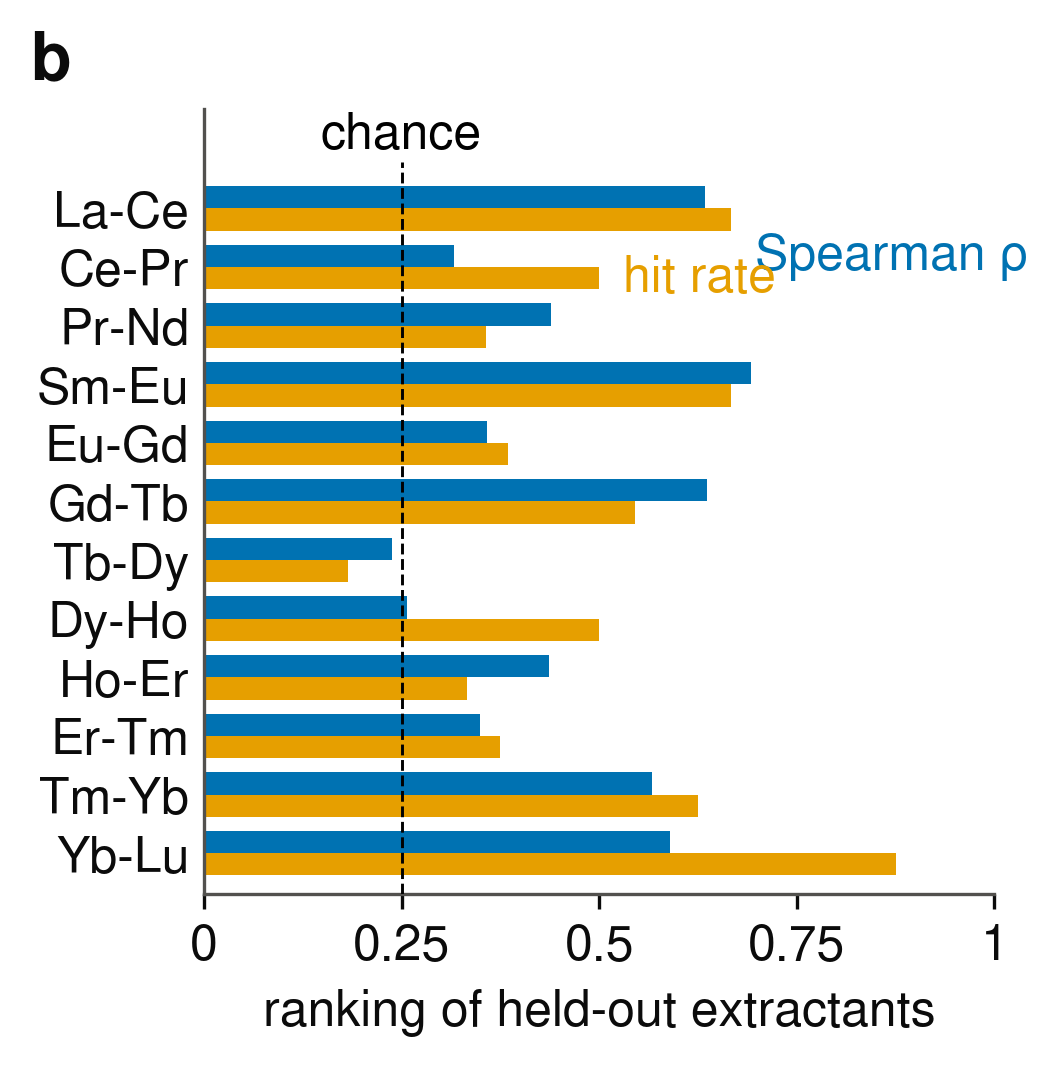
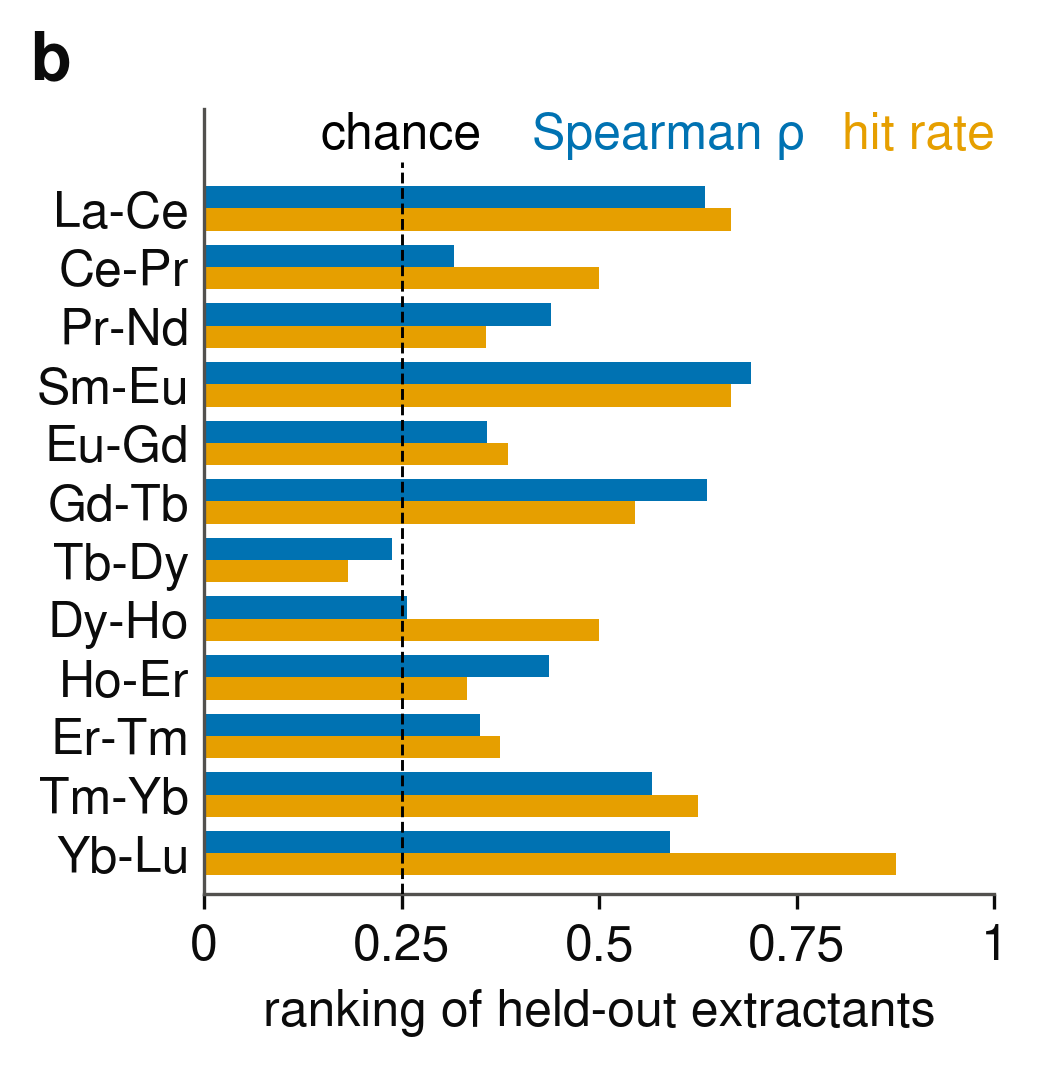
MoML figure, ranking panel: chance and the two series names on one line above the bars, in their colours, nothing touching a bar

diff --git a/docs/moml_2026/make_figures.py b/docs/moml_2026/make_figures.py
@@ -77,15 +77,13 @@ def fig1b(ch=None):
     ax.vlines(chance, -0.7, len(pos) - 1 + 0.8, ls="--", lw=0.7, color=fs.OI["black"], zorder=3)
     # names written beside the shortest row's bars, where the axes are empty
     top = len(pos) - 1
-    # series names beside the Ce-Pr bars, near the top where the eye starts:
-    # single lines, each cleared past the bars above/below it in x
+    # one line in the band above the bars: chance at its line, then the two
+    # series names in their own colours, right-aligned; nothing touches a bar
     top = len(pos) - 1
-    k = pos.index("Ce-Pr")
-    x_blue = max(rho[k], hit[k + 1]) + 0.03            # clears the La-Ce orange bar above
-    x_orng = max(hit[k], rho[k - 1]) + 0.03            # clears the Pr-Nd blue bar below
-    ax.text(x_blue, k + h / 2, "Spearman ρ", va="center", ha="left", color=fs.COLOR["model"])
-    ax.text(x_orng, k - h / 2, "hit rate", va="center", ha="left", color=fs.COLOR["hit"])
-    ax.text(chance, top + 0.85, "chance", ha="center", va="bottom", color=fs.OI["black"])
+    yb = top + 0.85
+    ax.text(chance, yb, "chance", ha="center", va="bottom", color=fs.OI["black"])
+    ax.text(0.76, yb, "Spearman ρ", ha="right", va="bottom", color=fs.COLOR["model"])
+    ax.text(1.00, yb, "hit rate", ha="right", va="bottom", color=fs.COLOR["hit"])
     ax.set_yticks(y); ax.set_yticklabels(pos)
     ax.set_ylim(-0.7, top + 1.7)
     ax.set_xlim(0, 1.0); ax.set_xticks([0, 0.25, 0.5, 0.75, 1.0])
